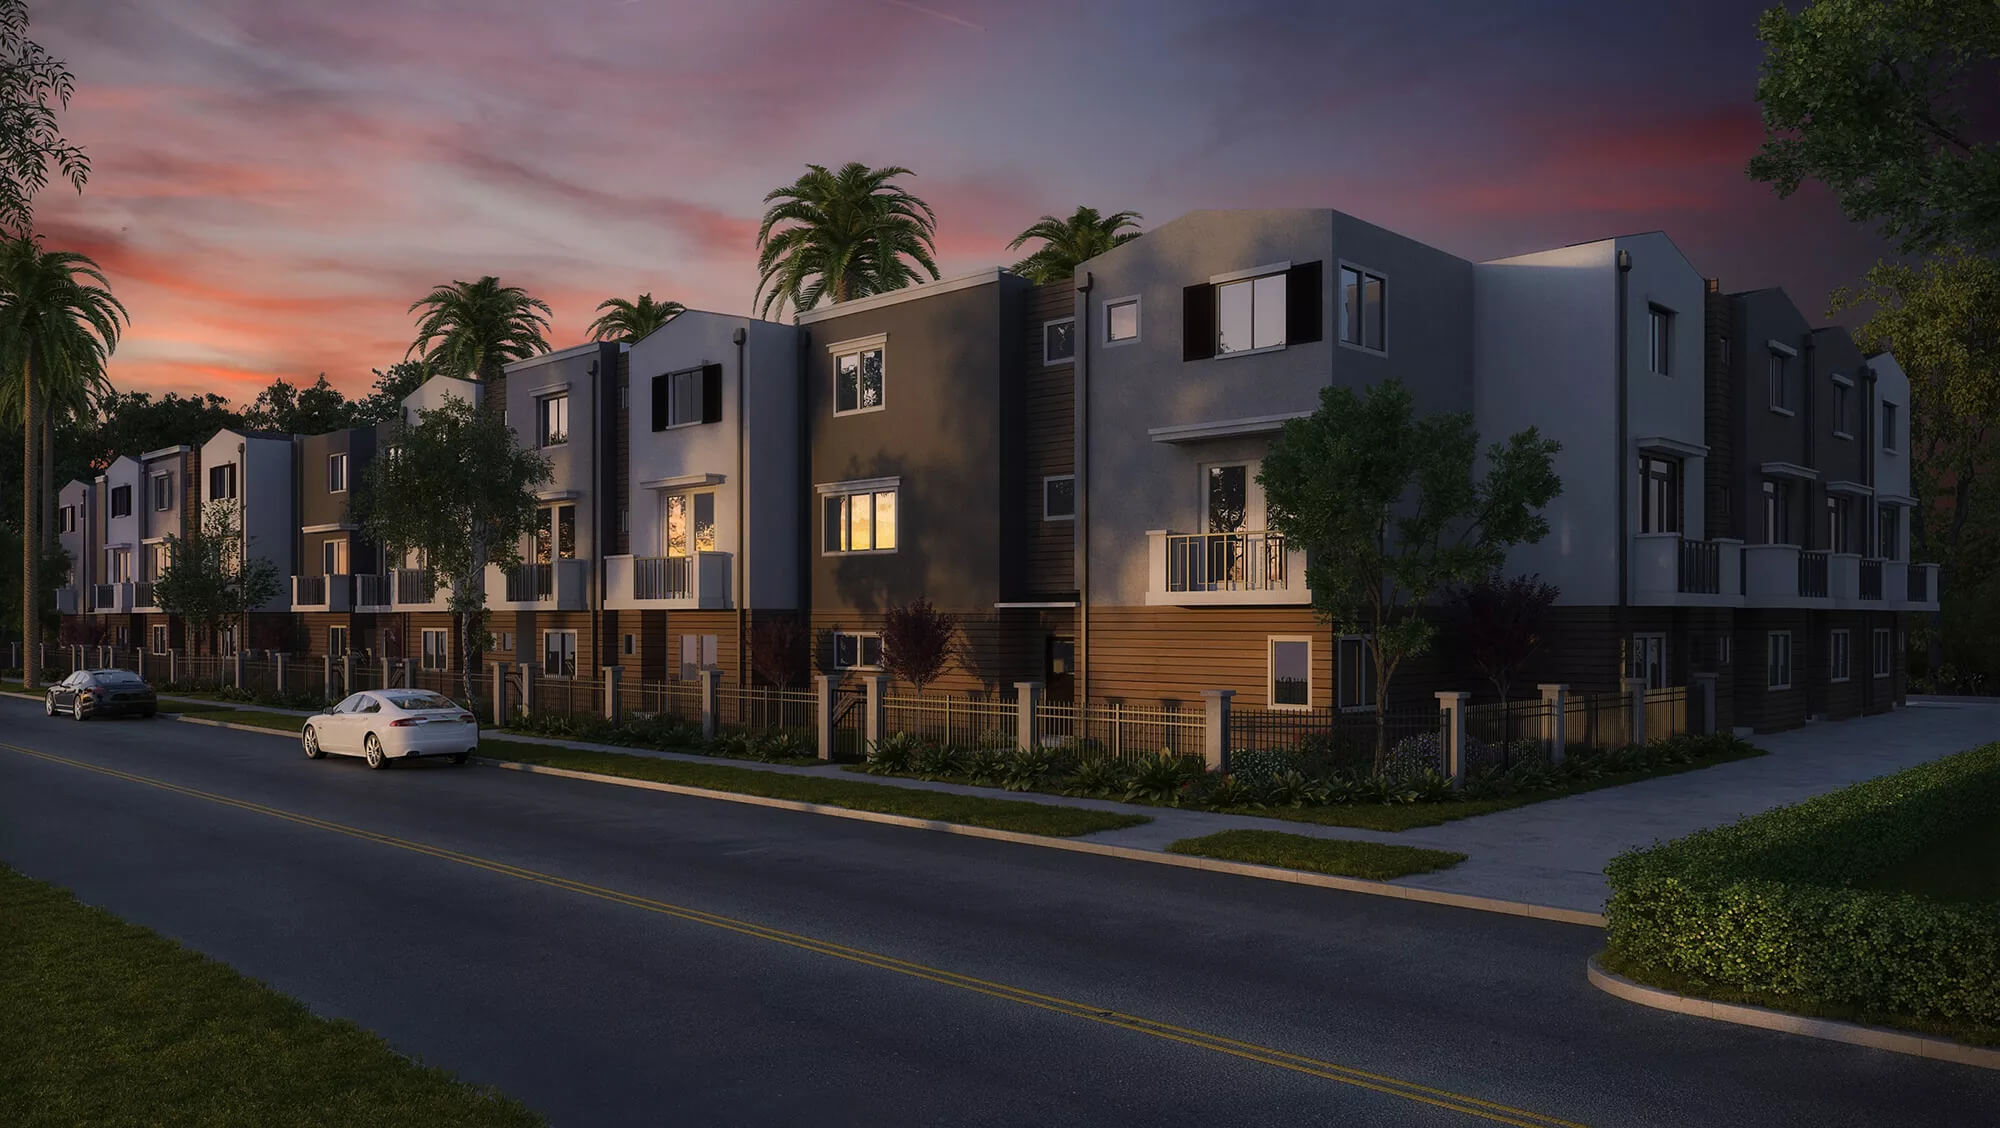
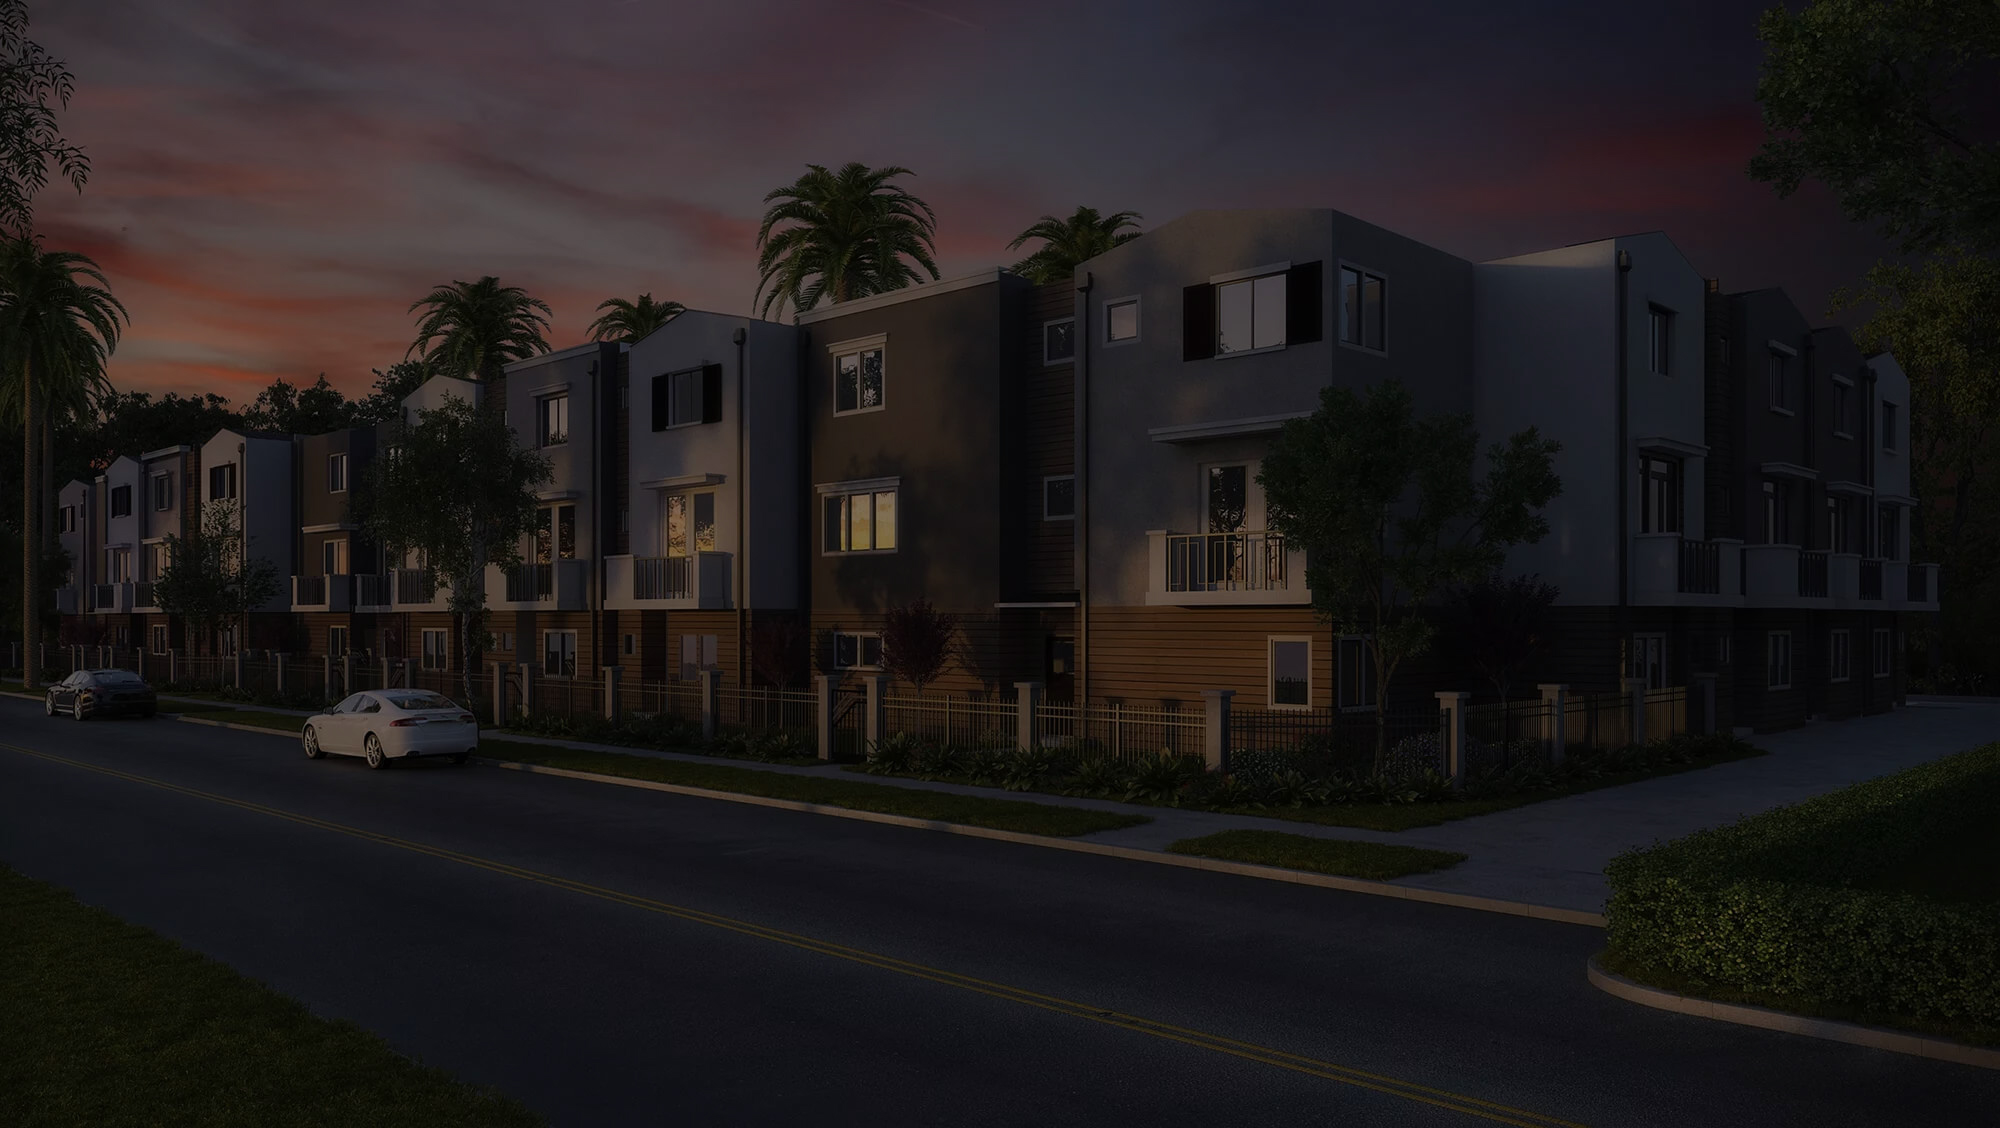
Modern house feature video added

diff --git a/src/Components/Home/FeatureVideo.js b/src/Components/Home/FeatureVideo.js
@@ -1,0 +1,18 @@
+import React from 'react';
+import { FaPlayCircle } from 'react-icons/fa';
+import './feature.css';
+const FeatureVideo = () => {
+    return (
+        <div className='feature-video'>
+            <div className='flex min-h-screen items-center justify-center'>
+                <div>
+                    <h1 className='text-4xl md:text-8xl font-bold text-white text-center'>Find Modern House</h1>
+                    <p className='text-md md:text-xl font-semibold text-white w-2/4 text-center mx-auto my-5'>Far far away, behind the word mountains, far from the countries Vokalia and Consonantia, there live the blind texts.</p>
+                    <FaPlayCircle className='h-10 w-10 md:h-20 md:w-20 mx-auto text-hpro2nd'></FaPlayCircle>
+                </div>
+            </div>
+        </div>
+    );
+};
+
+export default FeatureVideo;

diff --git a/src/Components/Home/Home.js b/src/Components/Home/Home.js
@@ -1,5 +1,6 @@
 import React, { useContext } from 'react';
 import { DataContext } from '../../Context/DataProvider';
+import FeatureVideo from './FeatureVideo';
 import HomeCarousel from './HomeCarousel';
 import HomeProperty from './HomeProperty';
 import PropertySearch from './PropertySearch';
@@ -15,6 +16,7 @@ const Home = () => {
                    properties.map(property => <HomeProperty key={property.id} property={property}></HomeProperty>) 
                 }
             </div>
+            <FeatureVideo></FeatureVideo>
         </div>
     );
 };

diff --git a/src/Components/Home/feature.css b/src/Components/Home/feature.css
@@ -1,0 +1,4 @@
+.feature-video{
+    height: 100vh;
+    background-image: url(../../assests/background.jpg);
+}
